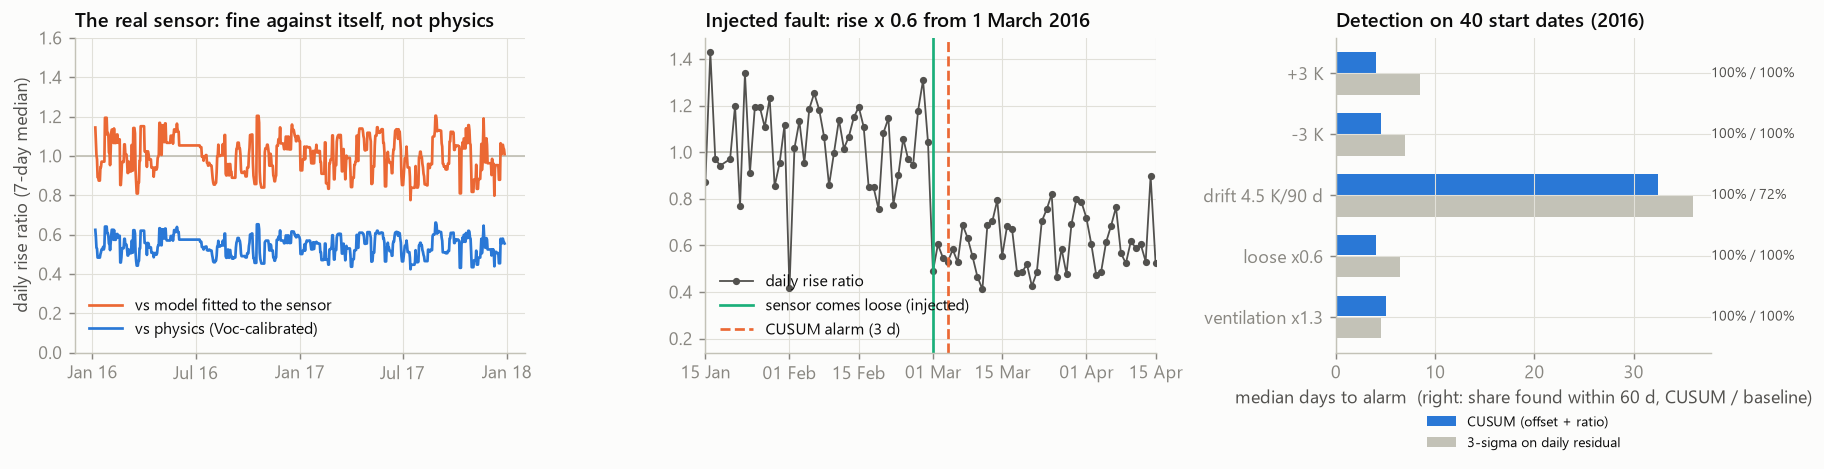
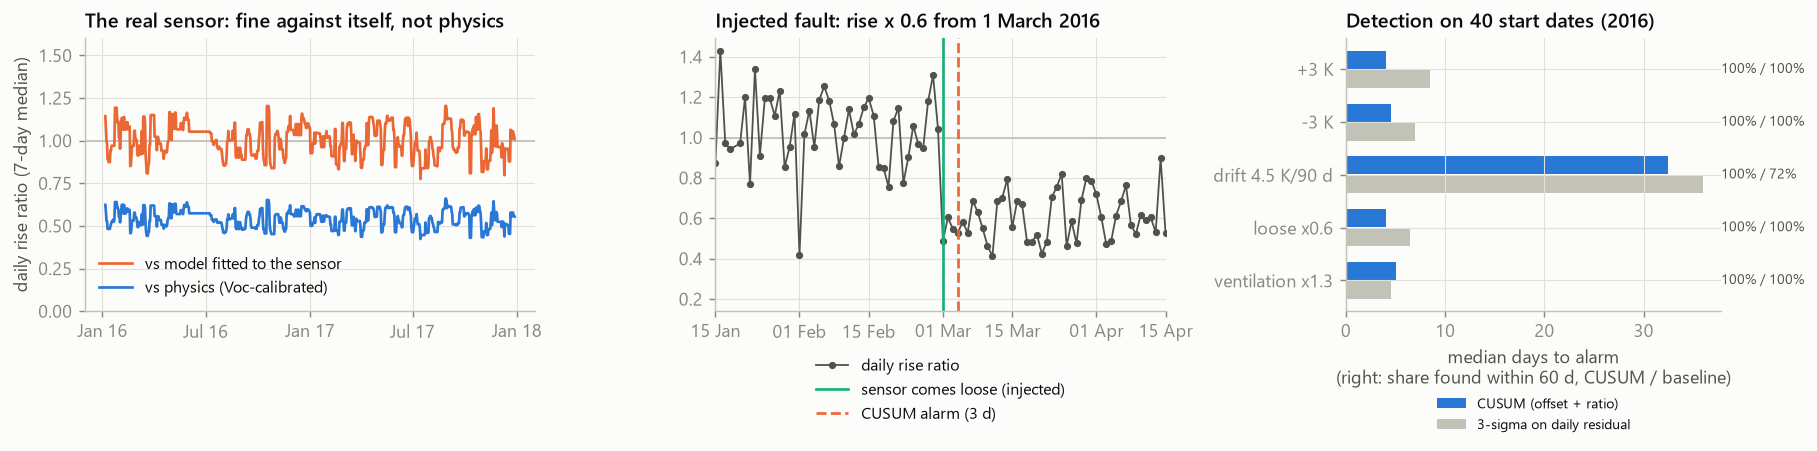
Fix figure layout: one tick per day, legends off the data
Voc thermometry: one date tick per day and the scatter legend in the empty corner. Sensor faults: legend of the injected case below the axis, two-line axis label. Inverter: half-yearly date ticks. No numbers changed.

diff --git a/src/pv_thermal/figures.py b/src/pv_thermal/figures.py
@@ -111,6 +111,7 @@ def fig_voc(res, path: Path) -> Path:
     a1.plot(loc, df["t_mod"], color=SENSOR, lw=1.5, label="back-of-module sensor")
     a1.plot(loc, df["ta"], color=INK2, lw=1.5, label="air (airport)")
     a1.set_ylabel("degC")
+    a1.xaxis.set_major_locator(mdates.DayLocator())  # one tick per day (the default put two per day, same label)
     a1.xaxis.set_major_formatter(mdates.DateFormatter("%d %b"))
     a1.set_title("Inverter down, array at open circuit: June 2016")
     a1.legend(loc="upper center", bbox_to_anchor=(0.5, -0.12), ncol=3, fontsize=9)
@@ -121,7 +122,7 @@ def fig_voc(res, path: Path) -> Path:
     a2.set_xlabel("POA irradiance, W/m2 (clear-sky scale)")
     a2.set_ylabel("rise over air, K")
     a2.set_title(f"Sensor reports {100 * s['sensor_gain']:.0f} % of the cell's rise")
-    a2.legend(loc="upper left")
+    a2.legend(loc="lower right")  # empty corner: high irradiance, no rise below air
     fig.tight_layout()
     return _save(fig, path)
 
@@ -176,7 +177,7 @@ def fig_faults(res, path: Path) -> Path:
     a2.set_xlim(pd.Timestamp("2016-01-15"), pd.Timestamp("2016-04-15"))
     a2.xaxis.set_major_formatter(mdates.DateFormatter("%d %b"))
     a2.set_title("Injected fault: rise x 0.6 from 1 March 2016")
-    a2.legend(loc="lower left", fontsize=9)
+    a2.legend(loc="upper center", bbox_to_anchor=(0.5, -0.12), ncol=1, fontsize=9)  # below the axis, off the data
     names = {"offset_plus": "+3 K", "offset_minus": "-3 K", "drift": "drift 4.5 K/90 d", "detached": "loose x0.6",
              "ventilation": "ventilation x1.3"}
     y = np.arange(len(t))
@@ -187,9 +188,9 @@ def fig_faults(res, path: Path) -> Path:
                 f"{100 * d:.0f}% / {100 * sd:.0f}%", va="center", fontsize=8, color=INK2)
     a3.set_yticks(y, [names[f] for f in t["fault"]])
     a3.invert_yaxis()
-    a3.set_xlabel("median days to alarm  (right: share found within 60 d, CUSUM / baseline)")
+    a3.set_xlabel("median days to alarm\n(right: share found within 60 d, CUSUM / baseline)")
     a3.set_title("Detection on 40 start dates (2016)")
-    a3.legend(loc="upper center", bbox_to_anchor=(0.5, -0.16), ncol=1, fontsize=8)
+    a3.legend(loc="upper center", bbox_to_anchor=(0.5, -0.27), ncol=1, fontsize=8)  # below the two-line label
     fig.tight_layout()
     return _save(fig, path)
 
@@ -211,6 +212,7 @@ def fig_inverter(res, path: Path) -> Path:
     a2.axvspan(pd.Timestamp("2016-06-04"), pd.Timestamp("2016-07-08"), color=GRID, lw=0)
     a2.text(pd.Timestamp("2016-06-20"), mo.max() * 0.95, "outage", ha="center", fontsize=8, color=INK2)
     a2.set_ylabel("measured - model, K (monthly)")
+    a2.xaxis.set_major_locator(mdates.MonthLocator(bymonth=(1, 7)))  # quarterly labels nearly touched
     a2.xaxis.set_major_formatter(mdates.DateFormatter("%b %y"))
     a2.set_title(f"After the July 2016 repair: {s['residual_after_jul2016'] - s['residual_before_jun2016']:+.1f} K")
     d = res.tables["derating_by_air_temperature"]
